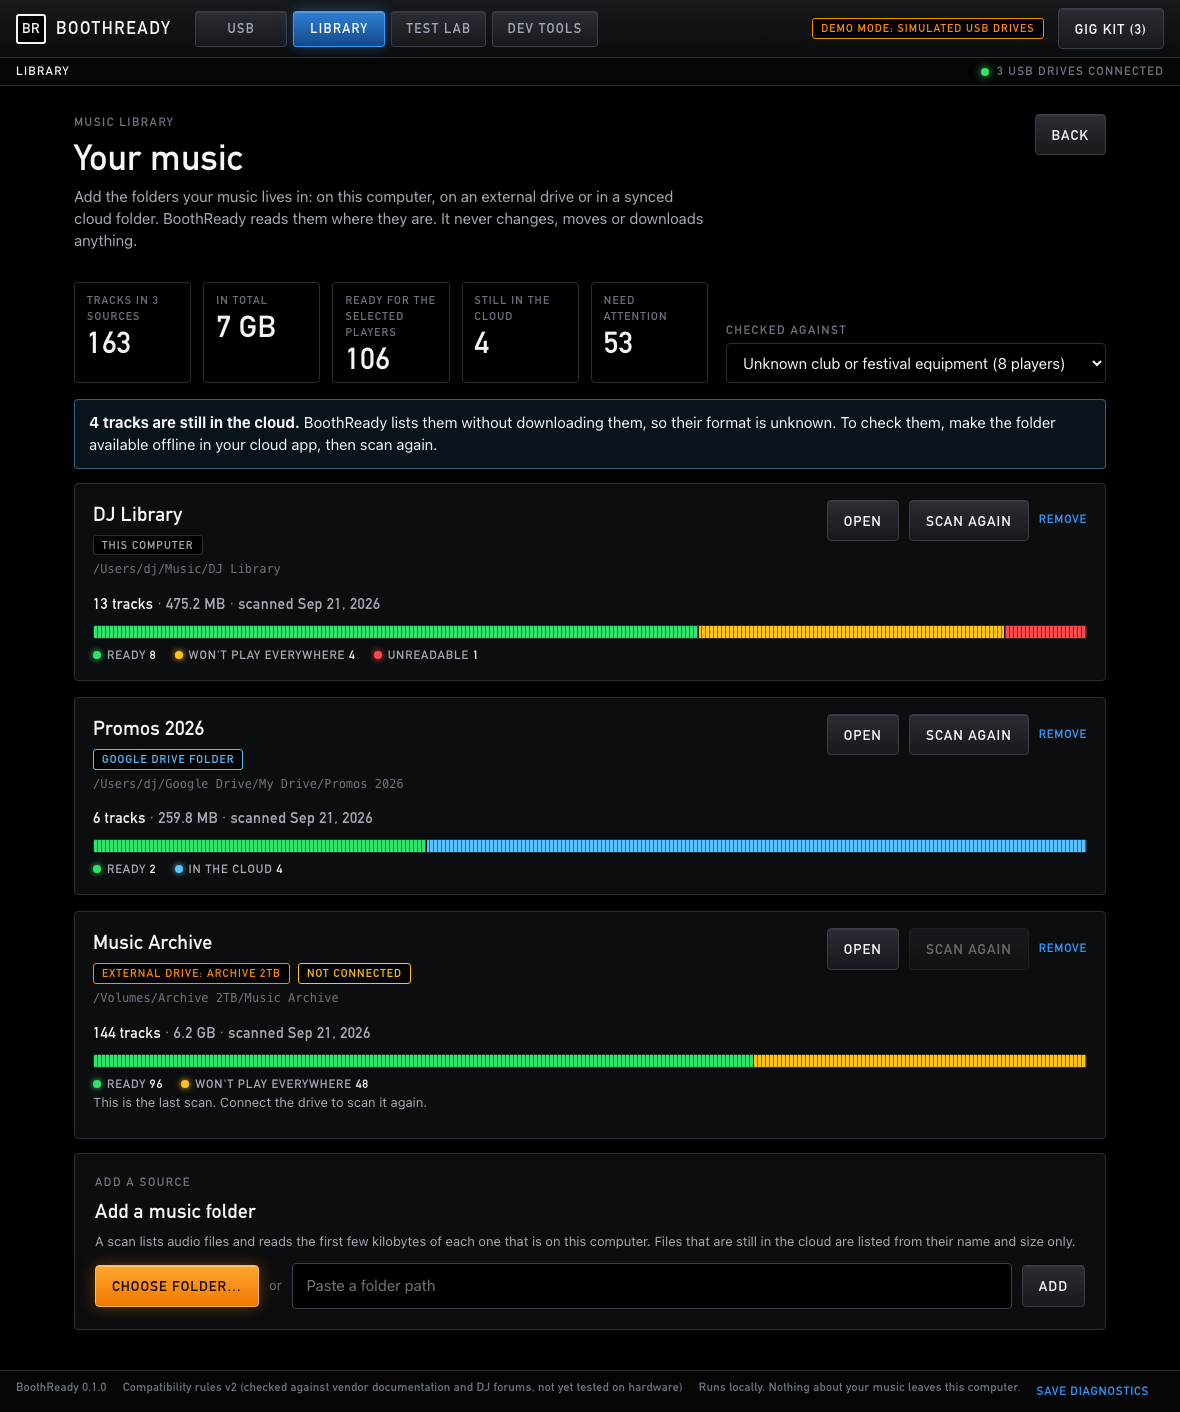
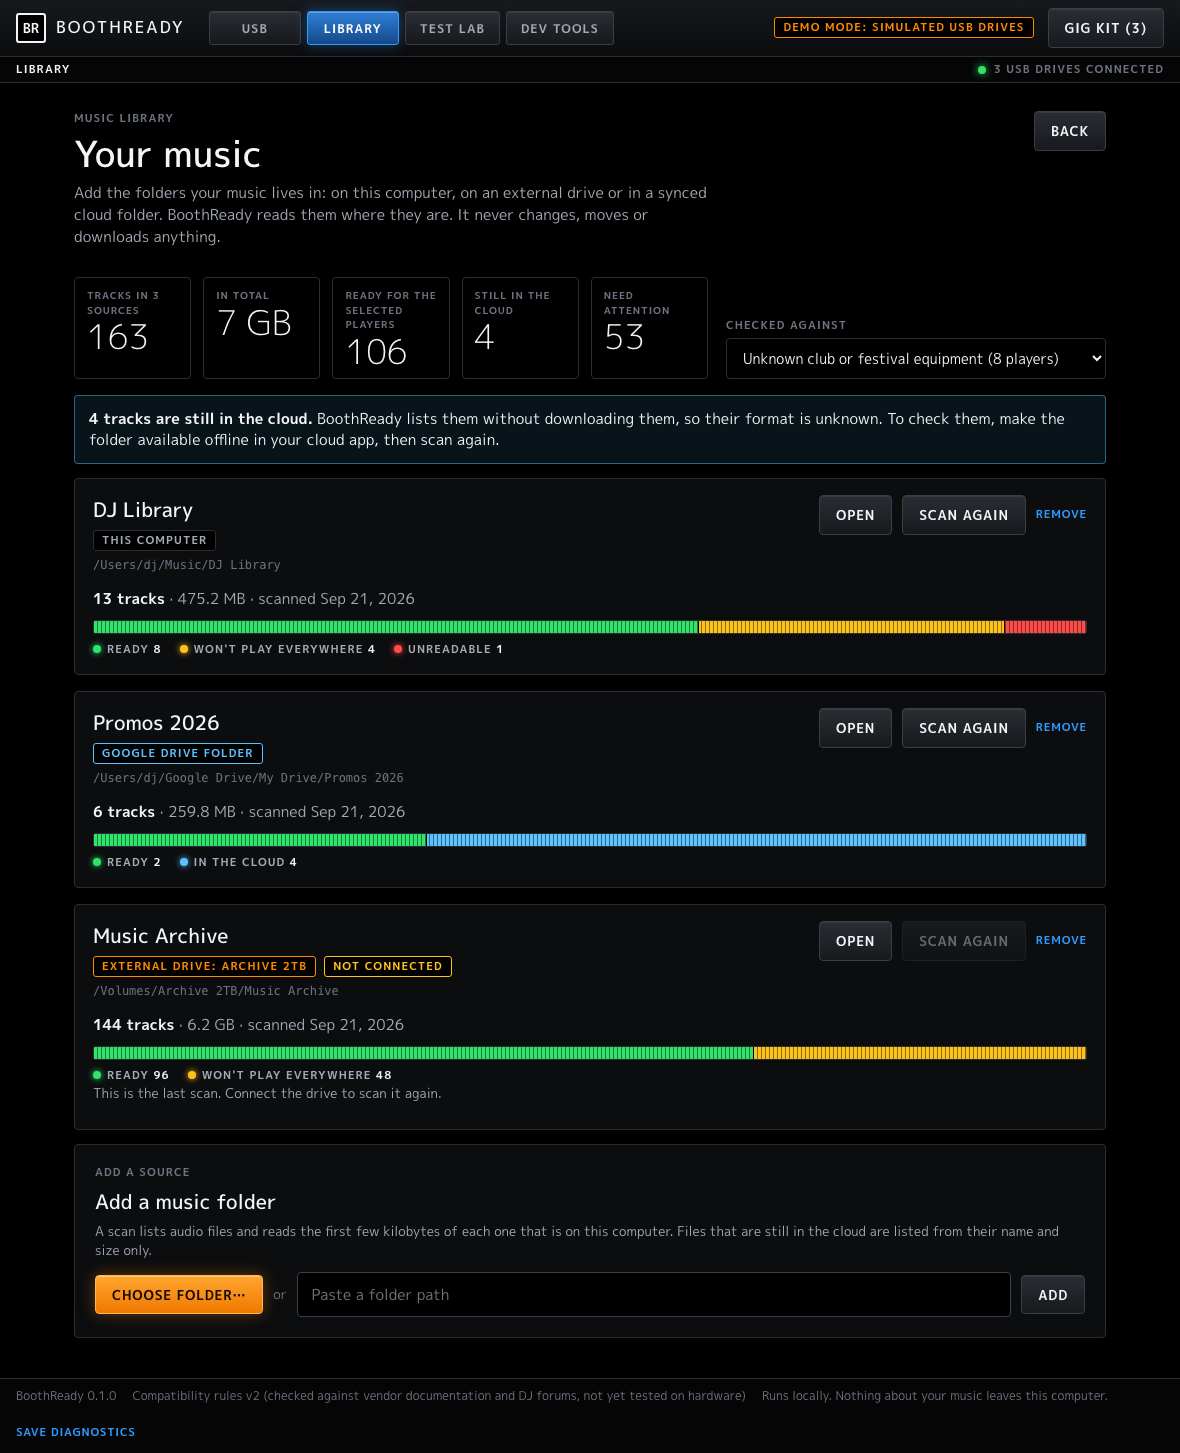
Set the app in M PLUS 1p, the closest open font to a CDJ display
The player-style restyle used DIN faces for labels and a system font for
body text. A capture of a CDJ-3000X display shows wide, round lettering with
light digits for the time and BPM, which M PLUS 1p matches more closely than
the other open fonts it was compared with. The player's own typeface is
unpublished, so this is a match by eye.

The font is bundled in four weights for Latin and Latin Extended, which
keeps the app free of network requests, and its licence text ships with the
build. Every font stack now uses it, readouts are light and large, and label
sizes and spacing are retuned for its wider letters.

diff --git a/app/src/styles.css b/app/src/styles.css
@@ -1,6 +1,11 @@
-/* The look follows a club player's screen: a black display, condensed
-   lettering, rectangular touch buttons and lamps that light in cue orange,
-   play green and browse blue. There is one theme, as on the hardware. */
+/* The look follows a club player's screen: a black display, wide round
+   lettering with light digits, rectangular touch buttons and lamps that
+   light in cue orange, play green and browse blue. There is one theme, as
+   on the hardware.
+
+   The typeface is M PLUS 1p (SIL Open Font License), the closest open font
+   to the lettering on a CDJ-3000X display. The player's own font is not
+   published and is not used here. */
 :root {
   color-scheme: dark;
   --bg: #000000;
@@ -28,9 +33,10 @@
   --hw-face: #0f1115;
   --radius: 4px;
   --shadow: none;
-  --display: "DIN Alternate", "Bahnschrift", "Barlow Semi Condensed", "Roboto Condensed", "Arial Narrow", ui-sans-serif, system-ui, sans-serif;
-  --condensed: "DIN Condensed", "Bahnschrift Condensed", "Barlow Condensed", "Roboto Condensed", "Arial Narrow", ui-sans-serif, system-ui, sans-serif;
-  font-family: "Inter", ui-sans-serif, system-ui, -apple-system, "Segoe UI", Roboto, sans-serif;
+  --ui: "M PLUS 1p", "Hiragino Sans", "Yu Gothic UI", "Noto Sans", ui-sans-serif, system-ui, -apple-system, "Segoe UI", sans-serif;
+  --display: var(--ui);
+  --condensed: var(--ui);
+  font-family: var(--ui);
   font-size: 15px;
   line-height: 1.45;
 }
@@ -2053,4 +2059,125 @@ h1 {
 .pill.collection {
   color: var(--ok);
   border-color: var(--ok);
+}
+
+/* ------------------------------------------------------------------
+   Lettering tuned for M PLUS 1p, which is wider and lighter than the
+   condensed faces the rules above were first written for.
+   ------------------------------------------------------------------ */
+body,
+button,
+input,
+select {
+  font-family: var(--ui);
+}
+
+h1 {
+  font-weight: 500;
+  letter-spacing: 0;
+}
+
+h2,
+h3 {
+  font-weight: 500;
+  letter-spacing: 0;
+}
+
+.hero h1,
+.readiness h1 {
+  font-weight: 500;
+  letter-spacing: 2px;
+}
+
+.brand-mark {
+  font-weight: 700;
+  font-size: 13px;
+  letter-spacing: 0;
+}
+
+.brand-name {
+  font-weight: 500;
+  font-size: 16px;
+  letter-spacing: 2px;
+}
+
+.tab {
+  font-size: 12px;
+  letter-spacing: 1px;
+}
+
+.btn {
+  font-size: 13px;
+  font-weight: 700;
+  letter-spacing: 0.8px;
+}
+
+.btn.small {
+  font-size: 11px;
+}
+
+.eyebrow,
+.field-label,
+.matrix th,
+.tracks th,
+.pathbar,
+.pill,
+.statelegend,
+.stat .small {
+  font-size: 11px;
+  letter-spacing: 1.1px;
+}
+
+/* Readouts are light and large, like the time and BPM on the player. */
+.stat b {
+  font-weight: 300;
+  font-size: 34px;
+  letter-spacing: 0;
+}
+
+.source-totals,
+.collect-progress,
+.tracks .num,
+.tracks .idx {
+  font-weight: 400;
+  letter-spacing: 0;
+}
+
+.matrix td b {
+  font-weight: 500;
+  letter-spacing: 0.2px;
+}
+
+.verdict,
+.trackstate {
+  font-weight: 700;
+  font-size: 12px;
+  letter-spacing: 0.8px;
+}
+
+.browse .chip {
+  font-size: 12px;
+  letter-spacing: 0.8px;
+}
+
+.arttile {
+  font-size: 10px;
+  letter-spacing: 0.2px;
+}
+
+.tracks td b {
+  font-weight: 500;
+}
+
+footer.foot {
+  letter-spacing: 0;
+}
+
+.library-players .select {
+  font-size: 14px;
+}
+
+.library-stats .stat .small {
+  font-size: 10px;
+  letter-spacing: 0.9px;
 }

diff --git a/app/src/main.ts b/app/src/main.ts
@@ -1,3 +1,13 @@
+// M PLUS 1p, bundled so the app needs no network. Latin Extended covers
+// accented track names; other scripts fall back to the system font.
+import "@fontsource/m-plus-1p/latin-300.css";
+import "@fontsource/m-plus-1p/latin-400.css";
+import "@fontsource/m-plus-1p/latin-500.css";
+import "@fontsource/m-plus-1p/latin-700.css";
+import "@fontsource/m-plus-1p/latin-ext-300.css";
+import "@fontsource/m-plus-1p/latin-ext-400.css";
+import "@fontsource/m-plus-1p/latin-ext-500.css";
+import "@fontsource/m-plus-1p/latin-ext-700.css";
 import "./styles.css";
 import { createApi } from "./api";
 import { start } from "./app";

diff --git a/docs/ARCHITECTURE.md b/docs/ARCHITECTURE.md
@@ -124,5 +124,6 @@ The test lab adds a shared Rust virtual matrix, browser state scenarios and a de
 - **APFS sticks on macOS.** The volumes of an APFS partition live on a synthesized container disk, which the backend maps back to the partition from `diskutil list -plist virtual`. That's tested against sample output and against the CI runner's startup disk, but not yet against an APFS-formatted USB stick.
 - **FAT32 output on players.** The layout matches mkfs.fat's and passes `fsck.fat`, but it has to be tried on CDJs from each generation.
 - **Engine DJ paths.** Track paths in `m.db` are resolved against the database folder, the `Engine Library` folder and the volume root, because the exact base isn't documented. It should be checked against a real Engine DJ 4.x export.
+- **Typeface.** The app bundles M PLUS 1p in four weights, Latin and Latin Extended only, under the SIL Open Font License 1.1, with the licence text shipped at `licenses/M-PLUS-1p-OFL.txt`. It was chosen by eye against a CDJ-3000X display capture, since the player's own typeface is unpublished. Track names in other scripts fall back to a system font, which has not been checked on Windows or Linux.
 - **Product images.** The app draws illustrations. Licensed photography (PRD §96) is still open.
 - **Legal review** of reading vendor database formats and of the dependency licences (PRD §95). The helper and the CLI link only permissively licensed crates (MIT, Apache-2.0, BSD, ISC, Zlib, CC0), plus SQLite, which is public domain. Through Tauri the desktop app also links `cssparser`, `cssparser-macros`, `selectors`, `dtoa-short` and `option-ext`, which are MPL-2.0 (`deny.toml` allows exactly these five and fails on any other MPL crate, so `cargo deny check` keeps the helper and the CLI free of it). That licence is file-level copyleft, so it allows a proprietary app but obliges publishing any changes to those files, and it belongs in the review. rekordcrate (MPL-2.0) is only a dev-dependency, used to cross-check the PDB reader.
